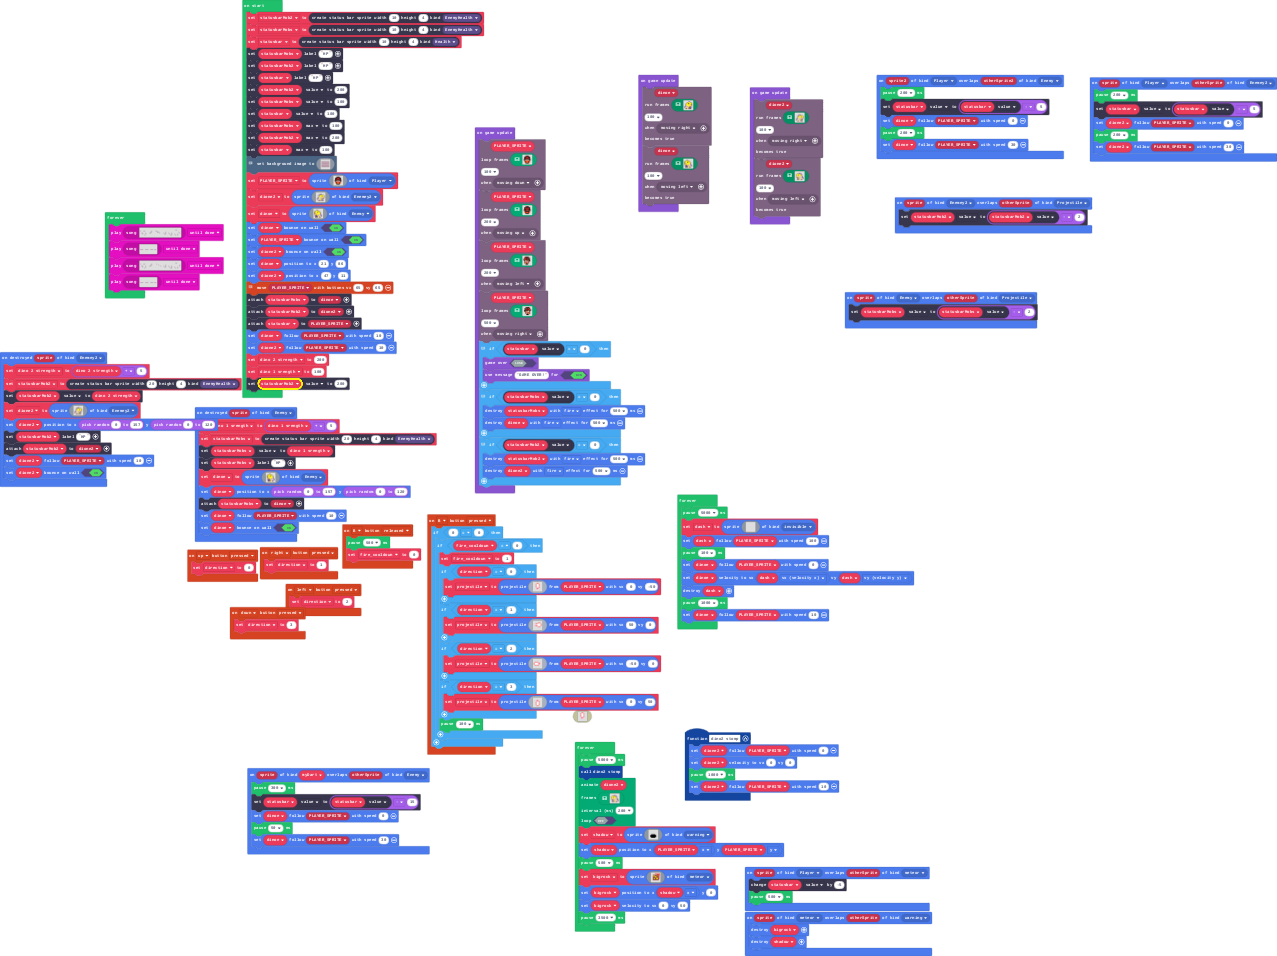
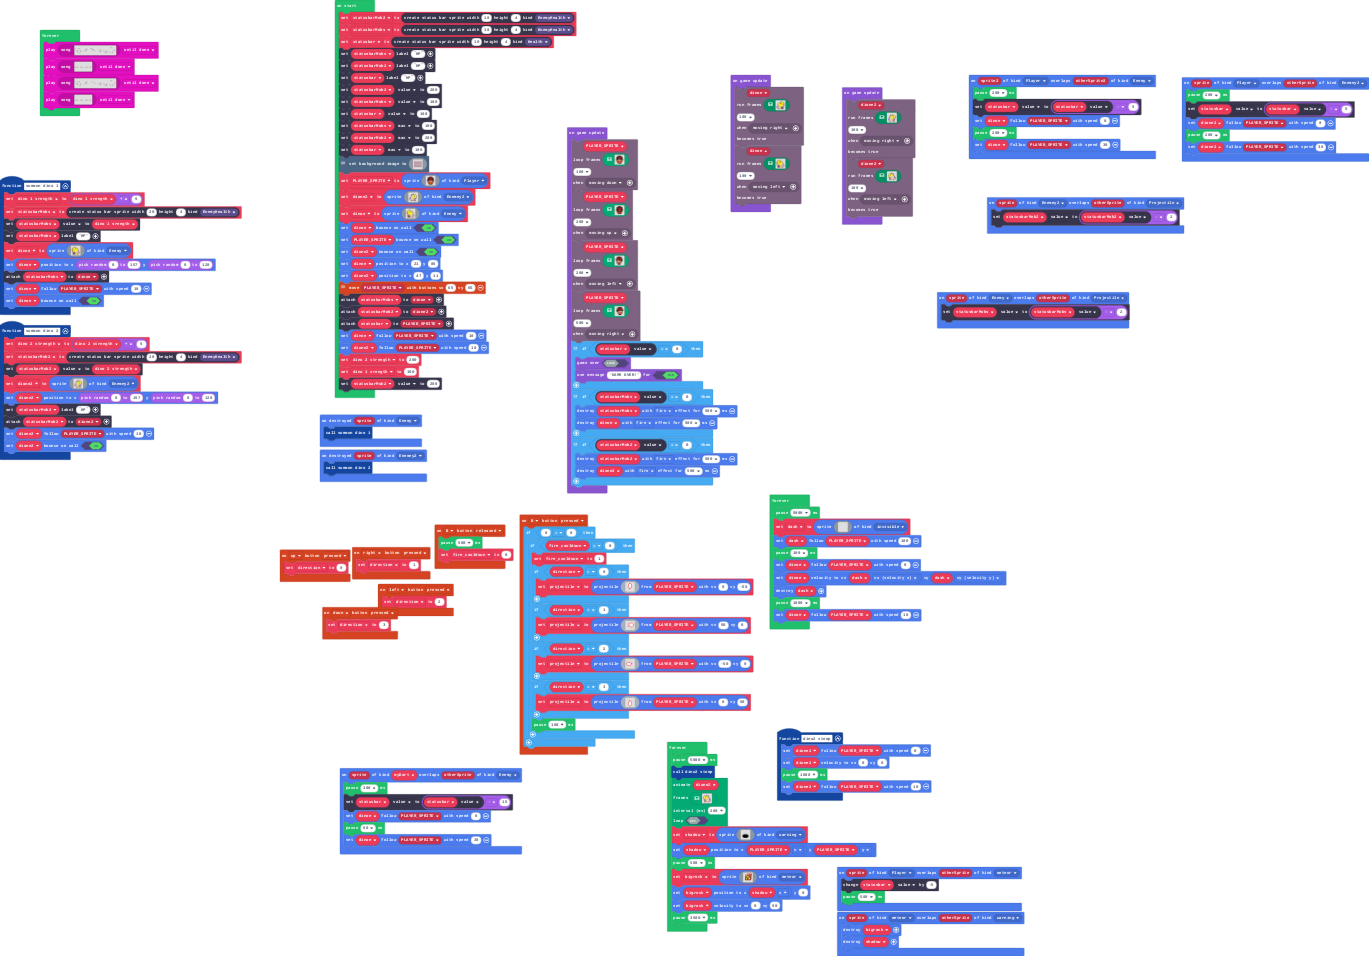
Update main.blocks, main.ts

Changed region(s): [[0.0, 0.0, 1.0, 1.0], [0.6413, 0.3033, 0.8246, 0.364], [0.0305, 0.0303, 0.1222, 0.1213]]

diff --git a/main.ts b/main.ts
@@ -52,6 +52,17 @@ controller.left.onEvent(ControllerButtonEvent.Pressed, function () {
 sprites.onOverlap(SpriteKind.Enemy, SpriteKind.Projectile, function (sprite, otherSprite) {
     statusbarMobs.value = statusbarMobs.value - 2
 })
+function summon_dino_2 () {
+    dino_2_strength = dino_2_strength + 5
+    statusbarMob2 = statusbars.create(20, 4, StatusBarKind.EnemyHealth)
+    statusbarMob2.value = dino_2_strength
+    dione2 = sprites.create(assets.image`myImage3`, SpriteKind.Enemey2)
+    dione2.setPosition(randint(0, 157), randint(0, 120))
+    statusbarMob2.setLabel("HP")
+    statusbarMob2.attachToSprite(dione2)
+    dione2.follow(PLAYER_SPRITE, 10)
+    dione2.setBounceOnWall(true)
+}
 sprites.onOverlap(SpriteKind.Player, SpriteKind.Enemy, function (sprite2, otherSprite2) {
     pause(200)
     statusbar.value = statusbar.value - 5
@@ -63,15 +74,7 @@ controller.right.onEvent(ControllerButtonEvent.Pressed, function () {
     direction = 1
 })
 sprites.onDestroyed(SpriteKind.Enemey2, function (sprite) {
-    dino_2_strength = dino_2_strength + 5
-    statusbarMob2 = statusbars.create(20, 4, StatusBarKind.EnemyHealth)
-    statusbarMob2.value = dino_2_strength
-    dione2 = sprites.create(assets.image`myImage3`, SpriteKind.Enemey2)
-    dione2.setPosition(randint(0, 157), randint(0, 120))
-    statusbarMob2.setLabel("HP")
-    statusbarMob2.attachToSprite(dione2)
-    dione2.follow(PLAYER_SPRITE, 10)
-    dione2.setBounceOnWall(true)
+    summon_dino_2()
 })
 controller.down.onEvent(ControllerButtonEvent.Pressed, function () {
     direction = 3
@@ -88,6 +91,9 @@ controller.B.onEvent(ControllerButtonEvent.Released, function () {
     fire_cooldown = 0
 })
 sprites.onDestroyed(SpriteKind.Enemy, function (sprite) {
+    summon_dino_1()
+})
+function summon_dino_1 () {
     dino_1_srength = dino_1_srength + 5
     statusbarMobs = statusbars.create(20, 4, StatusBarKind.EnemyHealth)
     statusbarMobs.value = dino_1_srength
@@ -97,7 +103,7 @@ sprites.onDestroyed(SpriteKind.Enemy, function (sprite) {
     statusbarMobs.attachToSprite(dinoe)
     dinoe.follow(PLAYER_SPRITE, 10)
     dinoe.setBounceOnWall(true)
-})
+}
 function dino2_stomp () {
     dione2.follow(PLAYER_SPRITE, 0)
     dione2.setVelocity(0, 0)
